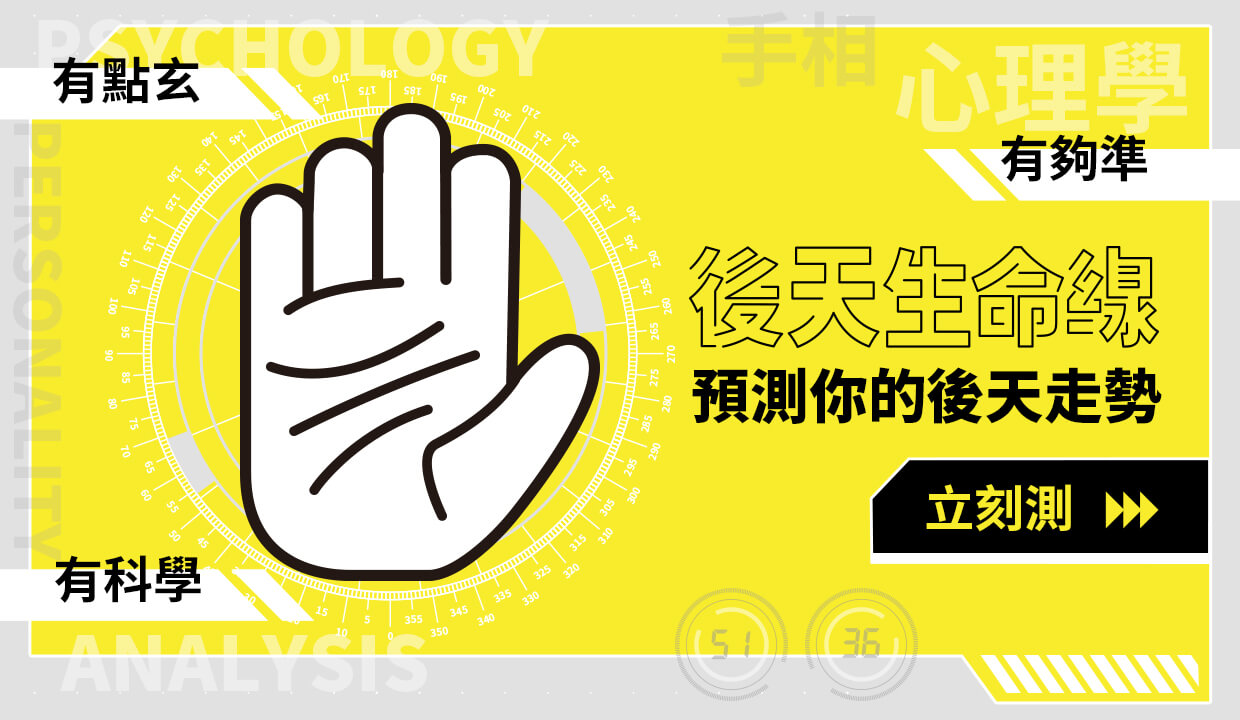
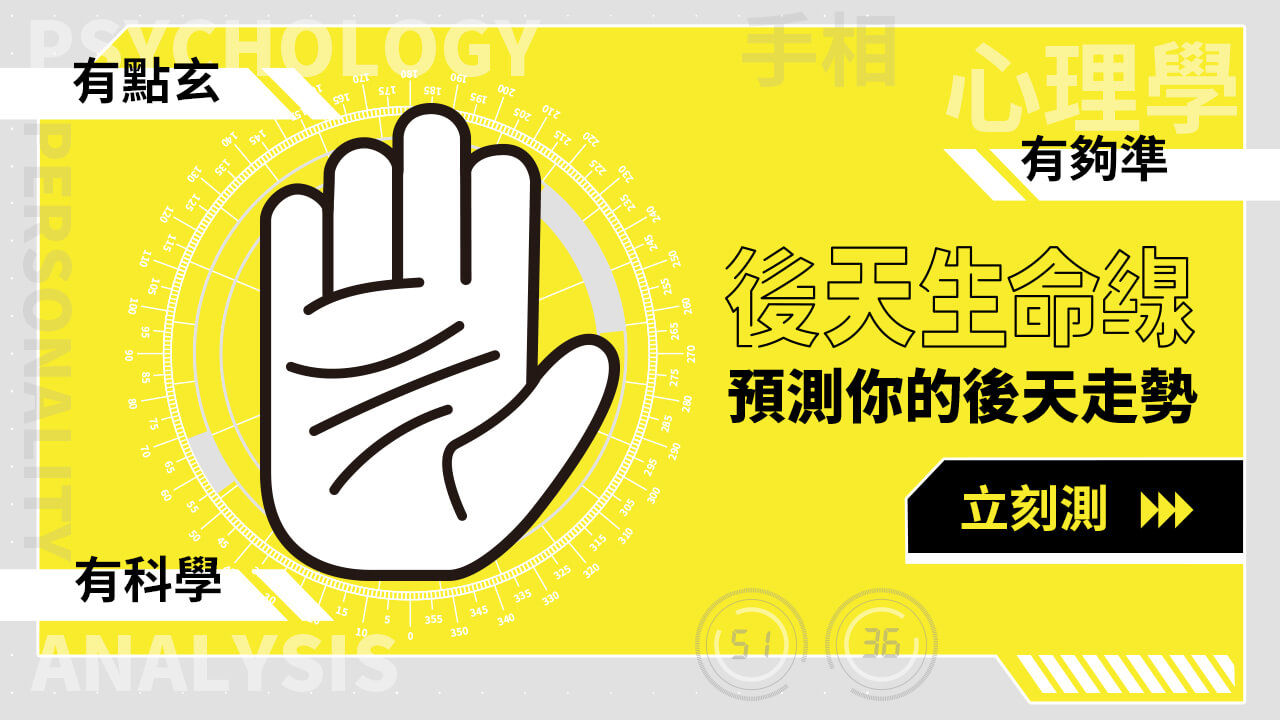
resize canvas to 750

diff --git a/src/pages/questions/canvas.js b/src/pages/questions/canvas.js
@@ -1,37 +1,17 @@
-/* eslint-disable import/no-dynamic-require */
-/* eslint-disable global-require */
-/* eslint-disable arrow-body-style */
 import { memo, useContext, useEffect, useRef, useState } from 'react';
 import { Context, getResultById } from '../../settings/config';
-import { ACTION, splitText } from '../../settings/constant';
-import BG from './img/canvas/bg.png';
-import Star from './img/canvas/star.svg';
+import { ACTION } from '../../settings/constant';
+import { Options, render } from './canvasRender';
+
 import './index.less';
 
 const style = {
-	transform: 'scale(1)',
+	position: 'fixed',
+	top: '0px',
+	left: '0px',
+	transform: `scale(${Options.canvas.scale})`,
 	transformOrigin: 'left top',
 	display: 'none',
-};
-
-const Options = {
-	lineHeight: 20,
-	maxBlock: 24,
-};
-
-const position = { x: 31, y: 42 };
-
-const ImageLoader = (url) => {
-	return new Promise((res, rej) => {
-		const image = new Image();
-		image.onload = (img) => {
-			res(img.currentTarget);
-		};
-		image.onerror = () => {
-			rej(new Error('image loaded error'));
-		};
-		image.src = url;
-	});
 };
 
 const Canvas = memo(({ onCapture }) => {
@@ -39,12 +19,11 @@ const Canvas = memo(({ onCapture }) => {
 	const { name, result, color } = context[ACTION.result];
 	const { profile, description } = getResultById[result];
 	const canvas = useRef();
-
 	const [drawed, setDrawed] = useState(false);
 
 	useEffect(() => {
 		if (drawed) {
-			const image = canvas.current.toDataURL('image/jpeg', '0.5');
+			const image = canvas.current.toDataURL('image/png', '1.0');
 			setContext({ type: ACTION.image, state: { base64: image } });
 			onCapture();
 		}
@@ -52,135 +31,18 @@ const Canvas = memo(({ onCapture }) => {
 
 	useEffect(() => {
 		const ctx = canvas.current?.getContext('2d');
-		const render = async () => {
-			const bg = await ImageLoader(BG);
-			const star = await ImageLoader(Star);
-			const { classname } = profile;
-			const { love } = description;
-			const [love1, love2] = love;
-			const { classname: classname1 } = love1;
-			const { classname: classname2 } = love2;
-			const profileImage = await ImageLoader(
-				require(`../result/profile/img/${classname.slice(1, 2)}/b${color}.png`).default,
-			);
 
-			const love1Image = await ImageLoader(
-				require(`../result/profile/img/${classname1.slice(1, 2)}/b1.png`).default,
-			);
-			const love2Image = await ImageLoader(
-				require(`../result/profile/img/${classname2.slice(1, 2)}/b1.png`).default,
-			);
-
-			ctx.clearRect(0, 0, canvas.current.width, canvas.current.height);
-
-			ctx.drawImage(bg, 0, 0, 448, 830);
-
-			const opt = { gap: 0, scale: 1, size: 0 };
-			ctx.textAlign = 'left';
-
-			// user name
-			ctx.font = 'bolder 17px Inter Black, Microsoft JhengHei, 微軟正黑體 bolder';
-			ctx.fillText(name || '你', position.x, position.y);
-			opt.gap = 20;
-			ctx.fillText('的後天生命線', position.x, position.y + opt.gap);
-
-			// result name
-			opt.gap = 62;
-			ctx.font = 'bolder 32px Microsoft JhengHei, 微軟正黑體 bolder';
-			ctx.strokeStyle = 'black';
-			ctx.fillText(profile.name, position.x, position.y + opt.gap);
-			ctx.stroke();
-
-			// result profile
-			opt.gap = 116;
-			opt.scale = 0.4;
-			Array.from(new Array(profile.star).keys()).forEach((e, i) => {
-				ctx.drawImage(
-					star,
-					75 + position.x + i * 50 * opt.scale,
-					position.y + opt.gap,
-					star.width * opt.scale,
-					star.height * opt.scale,
-				);
-			});
-			opt.gap = 151;
-			ctx.font = 'bolder 14.5px 微軟正黑體';
-			const [s, t] = profile.tenths.split('/');
-			ctx.fillText(`每${t}人，不到${s}人`, 11 + position.x, position.y + opt.gap);
-			opt.gap = 181;
-			ctx.font = '12px 微軟正黑體';
-			ctx.textAlign = 'center';
-			profile.feature.forEach((e, i) => {
-				ctx.fillText(e, 36 + position.x + i * 66, position.y + opt.gap);
-			});
-
-			// profile image
-			opt.gap = -5;
-			opt.size = 190;
-			ctx.drawImage(
-				profileImage,
-				205 + position.x,
-				position.y + (classname === 'p5' ? opt.gap + 6 : opt.gap),
-				opt.size,
-				opt.size,
-			);
-
-			// decription header
-			opt.gap = 263;
-			ctx.textAlign = 'left';
-			ctx.font = '22px 微軟正黑體';
-			ctx.fillText(description.title, 15 + position.x, position.y + opt.gap);
-
-			// descriptiom personal
-			opt.gap = 350;
-			ctx.font = '14.5px 微軟正黑體';
-			splitText(description.personality, Options.maxBlock).forEach((e, i) => {
-				ctx.fillText(e, 15 + position.x, position.y + opt.gap + i * Options.lineHeight);
-			});
-
-			// descriptiom career
-			opt.gap = 475;
-			ctx.font = '14.5px 微軟正黑體';
-			splitText(description.career, Options.maxBlock).forEach((e, i) => {
-				ctx.fillText(e, 15 + position.x, position.y + opt.gap + i * Options.lineHeight);
-			});
-
-			// desciption love
-			opt.gap = 573;
-			opt.size = 120;
-			const rowSize = 170;
-			const roeLeft = 44;
-
-			ctx.drawImage(
-				love1Image,
-				roeLeft + position.x,
-				position.y + (classname1 === 'p5' ? opt.gap - 6 : opt.gap),
-				opt.size,
-				opt.size,
-			);
-			ctx.drawImage(
-				love2Image,
-				roeLeft + rowSize + position.x,
-				position.y + (classname2 === 'p5' ? opt.gap - 8 : opt.gap),
-				opt.size,
-				opt.size,
-			);
-			opt.gap = 705;
-			ctx.textAlign = 'center';
-			ctx.font = 'bold 14.5px 微軟正黑體';
-
-			love.forEach((e, index) => {
-				const { name: na } = e;
-				ctx.fillText(na, 105 + position.x + rowSize * index, position.y + opt.gap);
-			});
-
-			setDrawed(true);
-		};
-		render();
+		render({ profile, description, name, color, ctx, canvas, setDrawed });
 	}, [context]);
 
 	return (
-		<canvas ref={canvas} width='448' height='830' className='fixed top-0 bg-yellow' style={style} />
+		<canvas
+			ref={canvas}
+			width={Options.canvas.width}
+			height={Options.canvas.height}
+			className='fixed top-0 bg-blue-600'
+			style={style}
+		/>
 	);
 });
 export default Canvas;

diff --git a/src/pages/questions/canvasRender.js b/src/pages/questions/canvasRender.js
@@ -1,0 +1,138 @@
+/* eslint-disable global-require */
+/* eslint-disable import/no-dynamic-require */
+import { ImageLoader, splitText } from '../../settings/constant';
+import BG from './img/canvas/bg.png';
+import Star from './img/canvas/star.svg';
+
+export const Options = {
+	lineHeight: 33,
+	maxBlock: 24,
+	position: { x: 52, y: 70 },
+	canvas: { width: 750, height: 1390, scale: 0.5973333333333334 },
+	fontFamily: 'Inter Black, Microsoft JhengHei, 微軟正黑體',
+};
+
+export const render = async ({ profile, description, name, color, ctx, canvas, setDrawed }) => {
+	const { position } = Options;
+	const bg = await ImageLoader(BG);
+	const star = await ImageLoader(Star);
+	const { classname } = profile;
+	const { love } = description;
+	const [love1, love2] = love;
+	const { classname: classname1 } = love1;
+	const { classname: classname2 } = love2;
+	const profileImage = await ImageLoader(
+		require(`../result/profile/img/${classname.slice(1, 2)}/b${color}.png`).default,
+	);
+
+	const love1Image = await ImageLoader(
+		require(`../result/profile/img/${classname1.slice(1, 2)}/b1.png`).default,
+	);
+	const love2Image = await ImageLoader(
+		require(`../result/profile/img/${classname2.slice(1, 2)}/b1.png`).default,
+	);
+	ctx.clearRect(0, 0, canvas.current.width, canvas.current.height);
+	ctx.drawImage(bg, 0, 0, Options.canvas.width, Options.canvas.height);
+
+	const opt = { gap: 0, scale: 1, size: 0 };
+	ctx.textAlign = 'left';
+
+	// user name
+	ctx.font = `bolder 28px ${Options.fontFamily}`;
+	ctx.fillText(name || '你', position.x, position.y);
+	opt.gap = 33;
+	ctx.fillText('的後天生命線', position.x, position.y + opt.gap);
+
+	// result name
+	opt.gap = 104;
+	ctx.font = `bolder 53.5px ${Options.fontFamily}`;
+	ctx.strokeStyle = 'black';
+	ctx.fillText(profile.name, position.x, position.y + opt.gap);
+	ctx.stroke();
+
+	// result profile
+	opt.gap = 194;
+	opt.scale = 0.67;
+	Array.from(new Array(profile.star).keys()).forEach((e, i) => {
+		ctx.drawImage(
+			star,
+			125 + position.x + i * 50 * opt.scale,
+			position.y + opt.gap,
+			star.width * opt.scale,
+			star.height * opt.scale,
+		);
+	});
+	opt.gap = 253;
+	ctx.font = `bolder 24px ${Options.fontFamily}`;
+	const [s, t] = profile.tenths.split('/');
+	ctx.fillText(`每${t}人，不到${s}人`, 18 + position.x, position.y + opt.gap);
+
+	opt.gap = 303;
+	ctx.font = `20px ${Options.fontFamily}`;
+	ctx.textAlign = 'center';
+	profile.feature.forEach((e, i) => {
+		ctx.fillText(e, 60 + position.x + i * 110, position.y + opt.gap);
+	});
+
+	// profile image
+	opt.gap = -8;
+	opt.size = 318;
+	ctx.drawImage(
+		profileImage,
+		343 + position.x,
+		position.y + (classname === 'p5' ? opt.gap + 10 : opt.gap),
+		opt.size,
+		opt.size,
+	);
+
+	// decription header
+	opt.gap = 440;
+	ctx.textAlign = 'left';
+	ctx.font = `37px ${Options.fontFamily}`;
+	ctx.fillText(description.title, 24 + position.x, position.y + opt.gap);
+
+	// descriptiom personal
+	opt.gap = 585;
+	ctx.font = '24px 微軟正黑體';
+	splitText(description.personality, Options.maxBlock).forEach((e, i) => {
+		ctx.fillText(e, 25 + position.x, position.y + opt.gap + i * Options.lineHeight);
+	});
+
+	// descriptiom career
+	opt.gap = 795;
+	ctx.font = '24px 微軟正黑體';
+	splitText(description.career, Options.maxBlock).forEach((e, i) => {
+		ctx.fillText(e, 25 + position.x, position.y + opt.gap + i * Options.lineHeight);
+	});
+
+	// desciption love
+	opt.gap = 959;
+	opt.size = 200;
+	const rowSize = 284;
+	const roeLeft = 73;
+
+	ctx.drawImage(
+		love1Image,
+		roeLeft + position.x,
+		position.y + (classname1 === 'p5' ? opt.gap - 6 : opt.gap),
+		opt.size,
+		opt.size,
+	);
+	ctx.drawImage(
+		love2Image,
+		roeLeft + rowSize + position.x,
+		position.y + (classname2 === 'p5' ? opt.gap - 8 : opt.gap),
+		opt.size,
+		opt.size,
+	);
+	opt.gap = 1180;
+	ctx.textAlign = 'center';
+	ctx.font = 'bold 24px 微軟正黑體';
+
+	love.forEach((e, index) => {
+		const { name: na } = e;
+		ctx.fillText(na, 175 + position.x + rowSize * index, position.y + opt.gap);
+	});
+
+	setDrawed(true);
+};

diff --git a/src/settings/constant.js b/src/settings/constant.js
@@ -1,3 +1,4 @@
+/* eslint-disable implicit-arrow-linebreak */
 /* eslint-disable no-plusplus */
 export const ACTION = {
 	page: '頁面',
@@ -76,3 +77,15 @@ export const splitText = (str, size) => {
 	}
 	return chunks;
 };
+
+export const ImageLoader = (url) =>
+	new Promise((res, rej) => {
+		const image = new Image();
+		image.onload = (img) => {
+			res(img.currentTarget);
+		};
+		image.onerror = () => {
+			rej(new Error('image loaded error'));
+		};
+		image.src = url;
+	});

diff --git a/src/pages/questions/processing.js b/src/pages/questions/processing.js
@@ -22,6 +22,13 @@ const Processing = memo(() => {
 
 	useEffect(() => {
 		setStyle({ opacity: 1, scale: 1 }, { duration: 500, delay: 500 });
+		setFrame(
+			{ index: 1 },
+			{
+				duration: 100000,
+				onUpdate: () => setOpacity(Math.random()),
+			},
+		);
 	}, []);
 
 	const onCapture = useCallback(() => {
